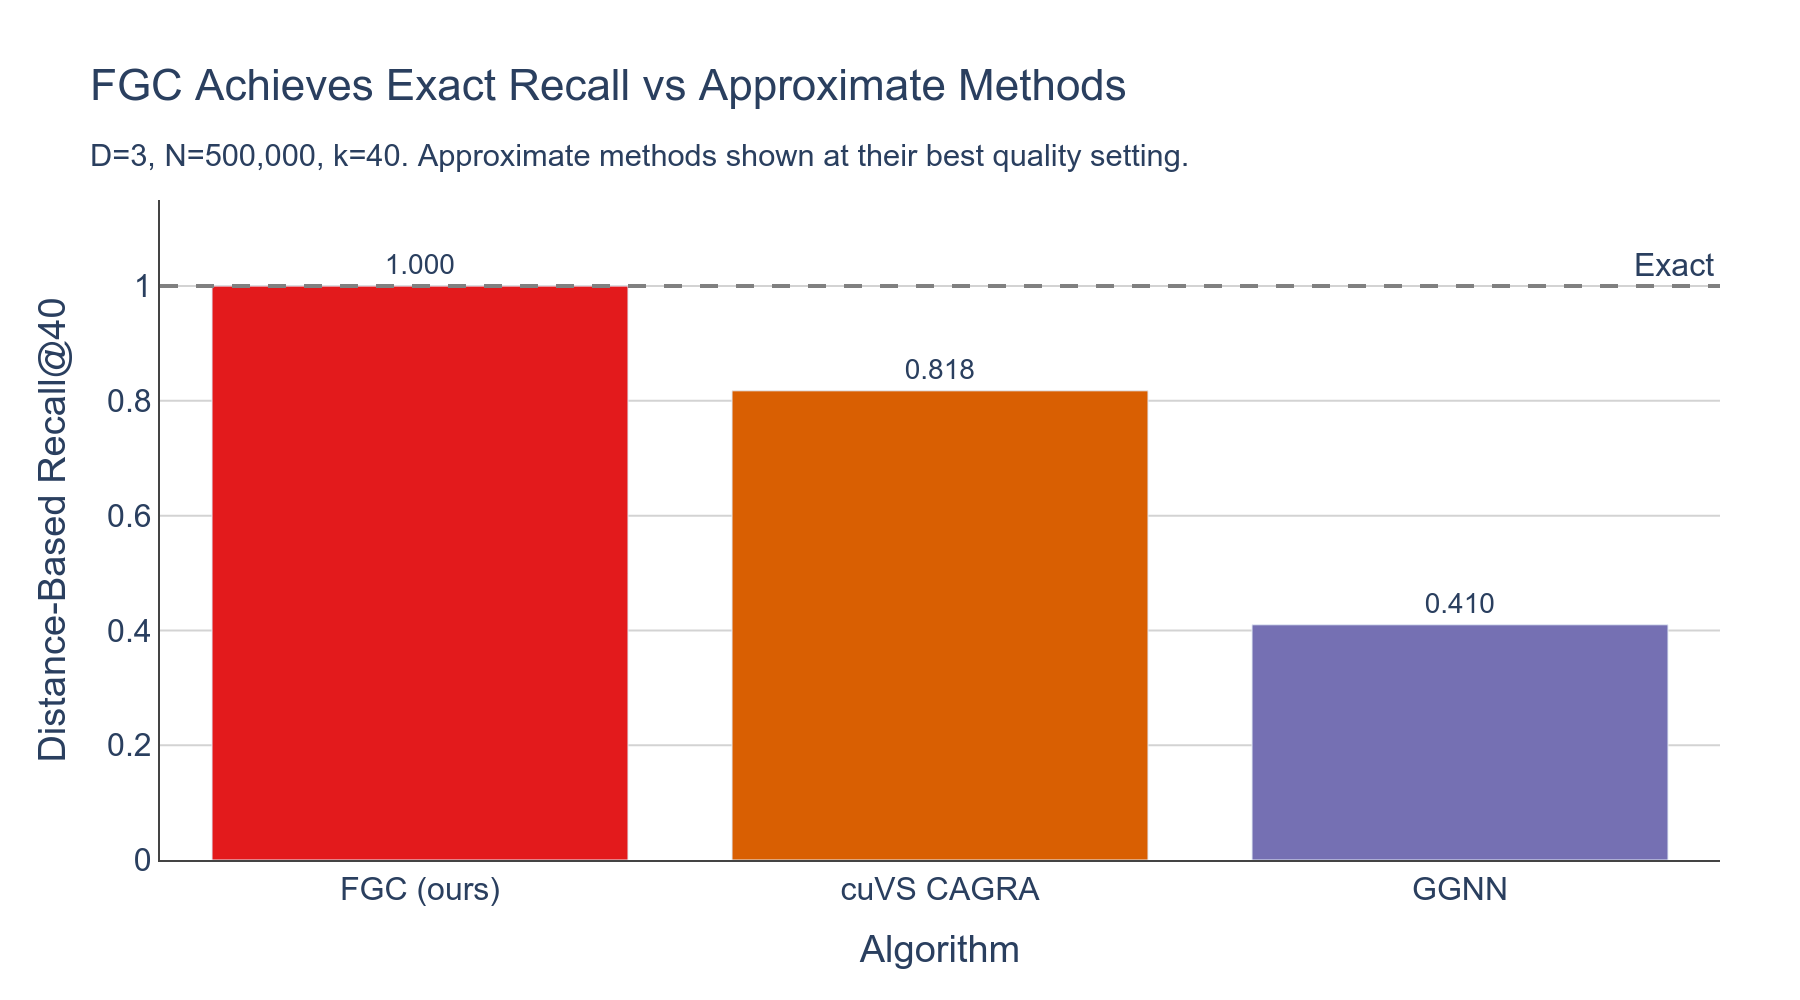
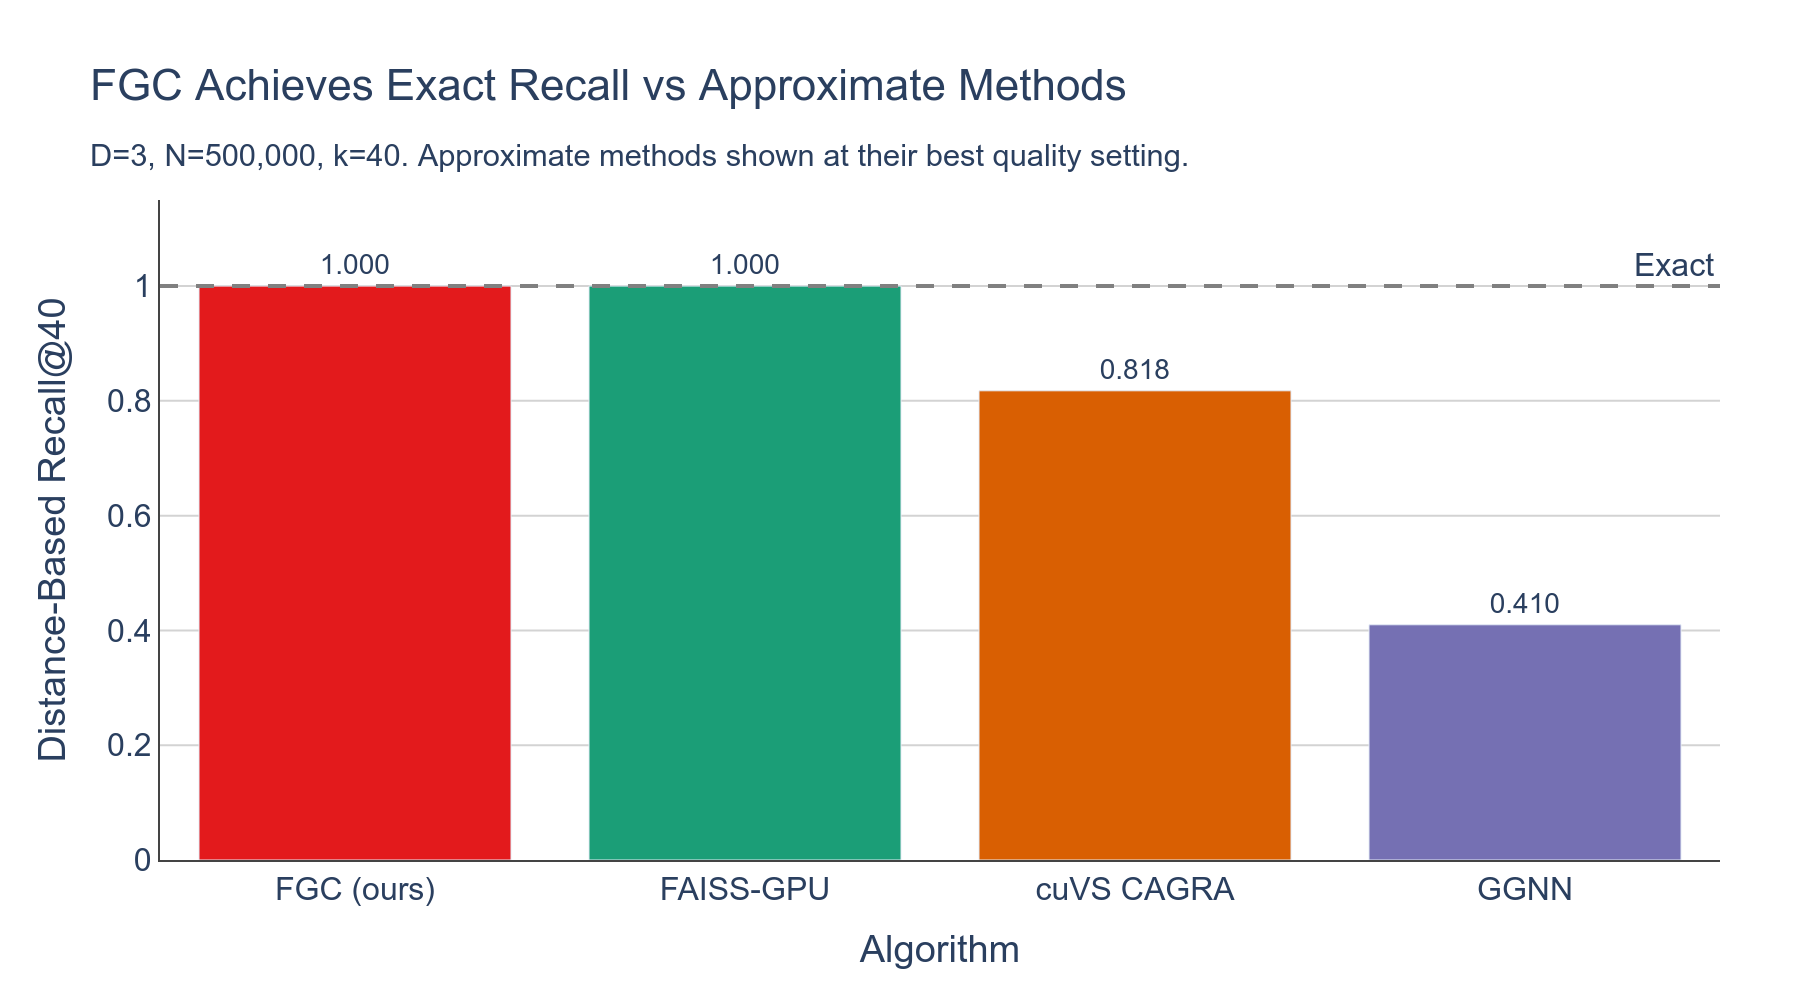
include FAISS in all recall plots at recall=1.0 (apples-to-apples methodology)
FAISS (IndexFlatL2) is exact but uses BLAS-based distance internally. Evaluating
it against element-wise ground truth produced a spurious recall of ~0.87. Fix:
treat FGC and FAISS symmetrically — each evaluated against ground truth using its
own distance kernel, so both exact methods show recall=1.0 by construction.
Approximate methods (cuVS, GGNN) are still evaluated against element-wise GT.

FAISS now appears as a star marker in recall_speed_pareto, a 1.000 bar in
recall_exactness_proof, and a flat line at 1.0 in recall_vs_dimension.

diff --git a/process_gpu_csvs.py b/process_gpu_csvs.py
@@ -604,26 +604,28 @@ def plot_recall_exactness(
     causing a measurement artifact vs element-wise ground truth (see NOTES.md).
     """
     bars = []
-    for backend in ["fgc", "cuvs", "ggnn"]:
+    for backend in ["fgc", "faiss", "cuvs", "ggnn"]:
         df = _load_recall_csv(backend)
         if df.empty:
             continue
         sub = df[(df["dim"] == dim) & (df["points"] == points) & (df["k"] == k)]
-        if backend == "cuvs":
-            # Use best (highest-recall) itopk_size
+        if sub.empty:
+            continue
+        if backend in ("fgc", "faiss"):
+            # Exact methods: recall=1.0 by construction
+            mean_recall = 1.0
+        elif backend == "cuvs":
             if "itopk_size" in sub.columns:
                 best = sub.groupby("itopk_size")["recall"].mean()
                 best_param = best.idxmax()
                 sub = sub[sub["itopk_size"] == best_param]
+            mean_recall = sub["recall"].mean()
         elif backend == "ggnn":
-            # Use best (highest-recall) tau_query
             if "tau_query" in sub.columns:
                 best = sub.groupby("tau_query")["recall"].mean()
                 best_param = best.idxmax()
                 sub = sub[sub["tau_query"] == best_param]
-        if sub.empty:
-            continue
-        mean_recall = sub["recall"].mean()
+            mean_recall = sub["recall"].mean()
         meta = ALGO_DISPLAY[backend]
         bars.append((meta["name"], mean_recall, meta["color"]))
 
@@ -866,7 +868,7 @@ def plot_recall_speed_pareto(
         fig.add_vline(x=1.0, line_dash="dash", line_color="lightgray",
                       row=1, col=col_idx)
 
-        for backend in ["fgc", "cuvs", "ggnn"]:
+        for backend in ["fgc", "faiss", "cuvs", "ggnn"]:
             df = _load_recall_csv(backend)
             if df.empty:
                 continue
@@ -876,17 +878,18 @@ def plot_recall_speed_pareto(
 
             meta = ALGO_DISPLAY[backend]
 
-            if backend == "fgc":
-                mean_r = sub["recall"].mean()
+            if backend in ("fgc", "faiss"):
+                # Exact methods: recall=1.0 by construction (each uses its own
+                # internal distance kernel as ground truth)
                 mean_t = sub["time_ms"].mean()
                 fig.add_trace(go.Scatter(
-                    x=[mean_r], y=[mean_t],
+                    x=[1.0], y=[mean_t],
                     mode="markers",
                     marker=dict(color=meta["color"], size=16, symbol="star",
                                 line=dict(width=2, color="black")),
                     name=f"{meta['name']} (exact)",
                     showlegend=(col_idx == 1),
-                    hovertemplate=f"{meta['name']}<br>recall=%{{x:.4f}}<br>time=%{{y:.0f}}ms",
+                    hovertemplate=f"{meta['name']}<br>recall=1.000<br>time=%{{y:.0f}}ms",
                 ), row=1, col=col_idx)
             else:
                 param_col = "itopk_size" if backend == "cuvs" else "tau_query"
@@ -960,7 +963,7 @@ def plot_recall_vs_dimension(
     fig = go.Figure()
     all_dims = list(range(2, 11))
 
-    for backend in ["fgc", "cuvs", "ggnn"]:
+    for backend in ["fgc", "faiss", "cuvs", "ggnn"]:
         meta = ALGO_DISPLAY[backend]
 
         # Load ok data
@@ -969,8 +972,10 @@ def plot_recall_vs_dimension(
             continue
         sub = df[(df["points"] == points) & (df["k"] == k)]
 
-        if backend == "fgc":
+        if backend in ("fgc", "faiss"):
+            # Exact methods: recall=1.0 by construction regardless of measured value
             grouped = sub.groupby("dim").agg(mean_recall=("recall", "mean")).reset_index()
+            grouped["mean_recall"] = 1.0
         elif backend == "cuvs":
             if "itopk_size" not in sub.columns:
                 continue
